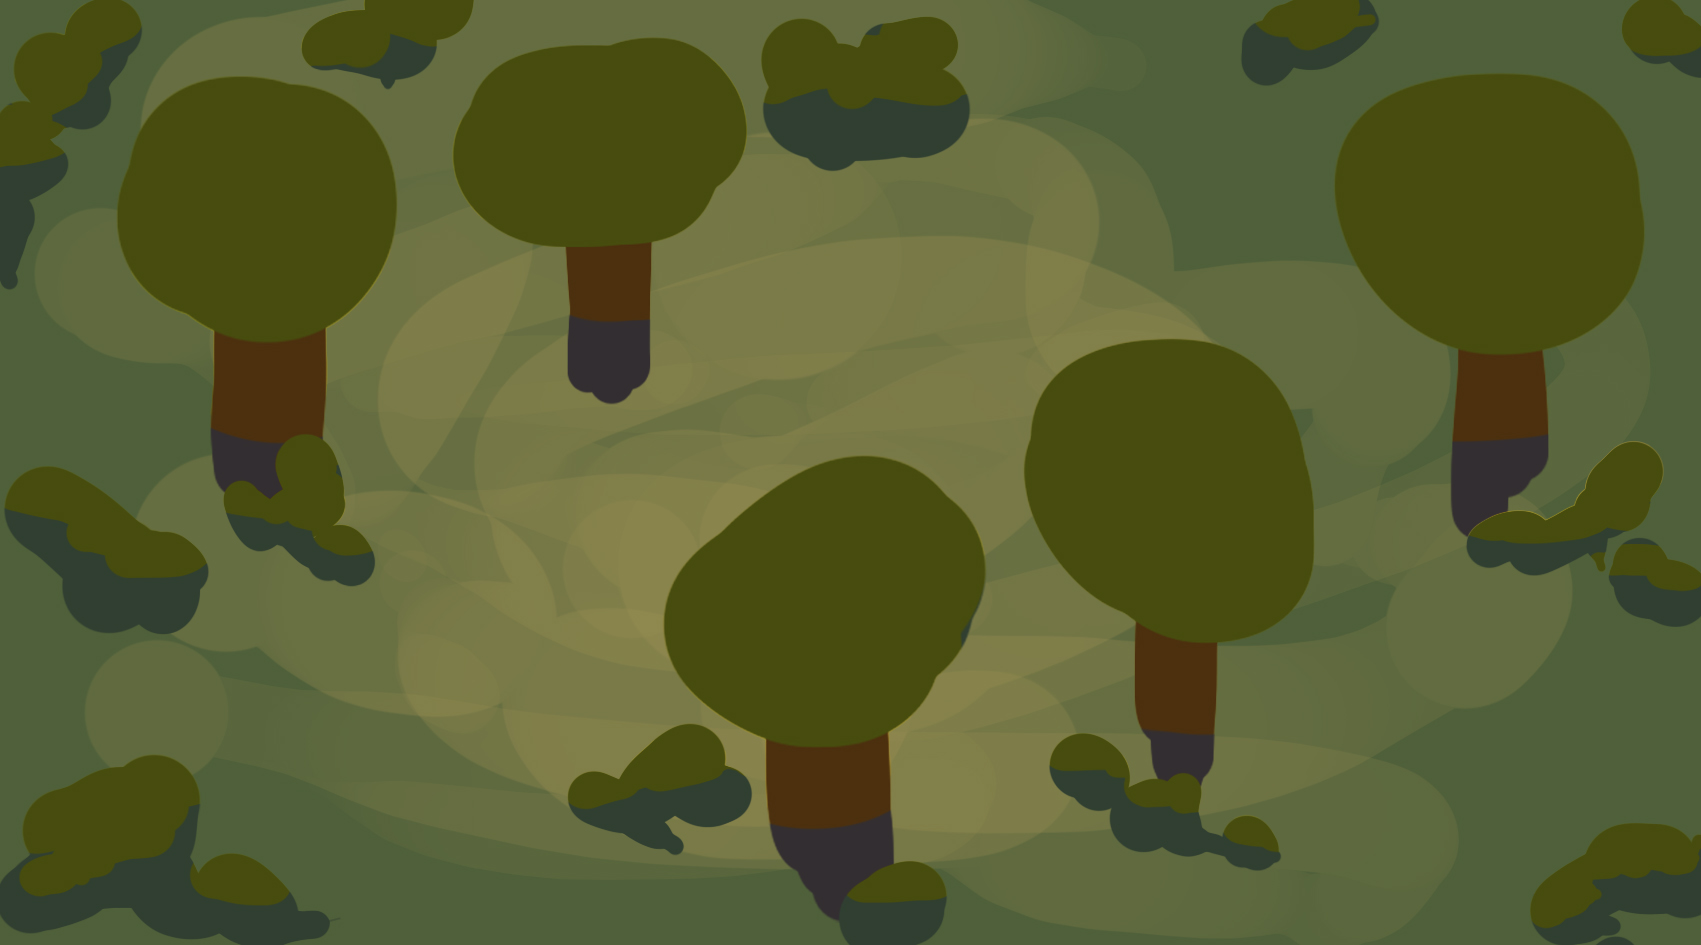
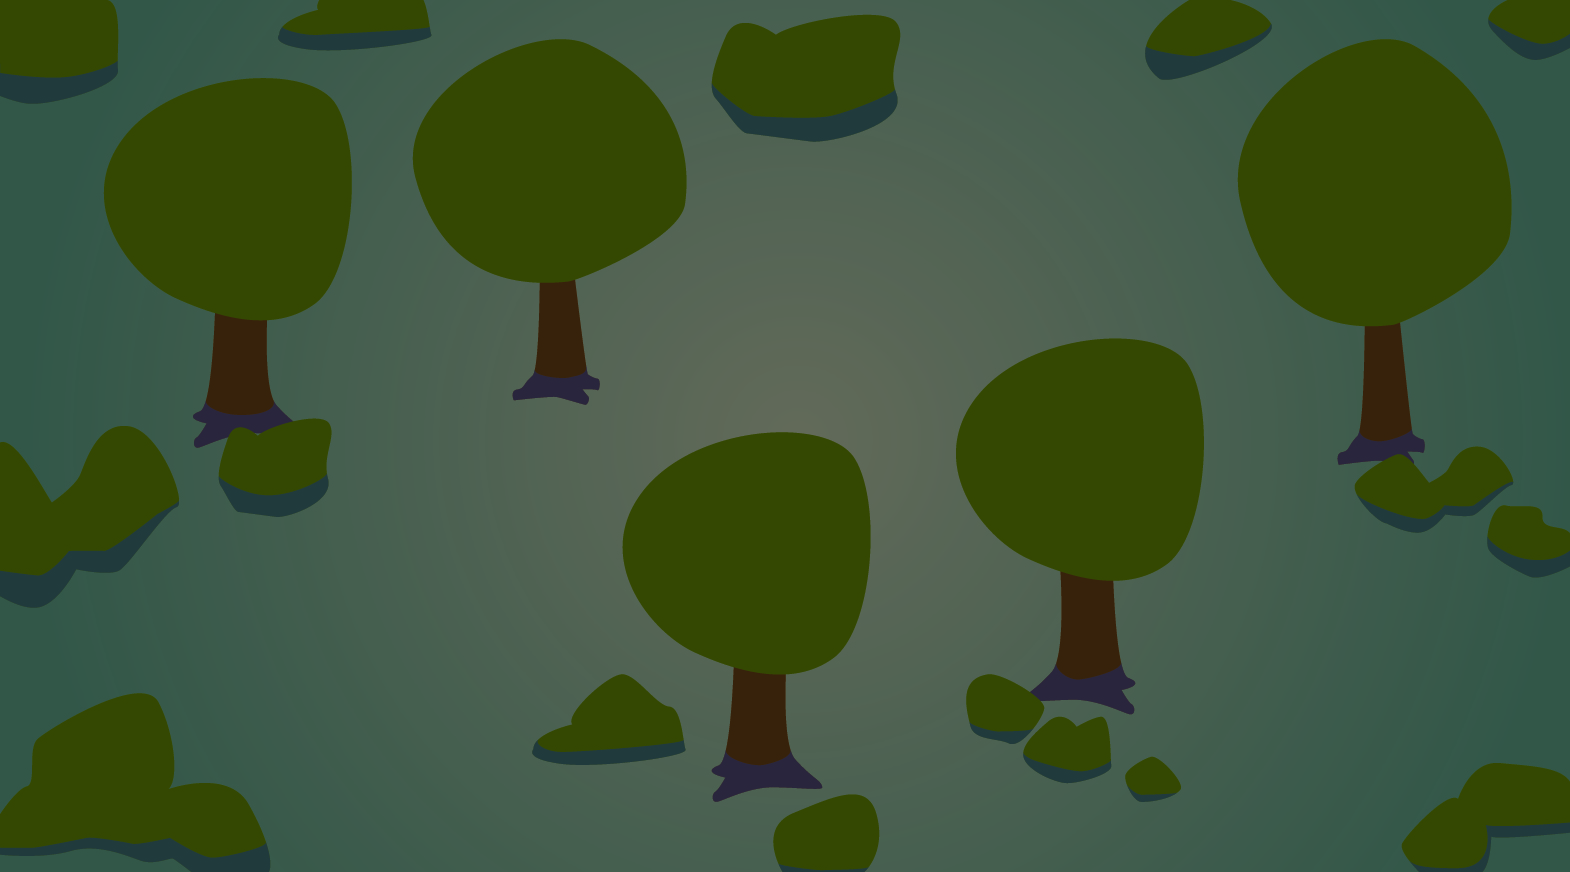
Nouveau FondInonde

diff --git a/Nuit de l'info 2015/Assets/CatastropheManager.cs b/Nuit de l'info 2015/Assets/CatastropheManager.cs
@@ -39,7 +39,7 @@ public class CatastropheManager : MonoBehaviour {
     // Commence à balancer des catastrophes
     public void Begin()
     {
-        DeclenchePesticides();
+        DeclencheInondation();
         isActif = true;
         
         // Génère un nouveau nextCata
